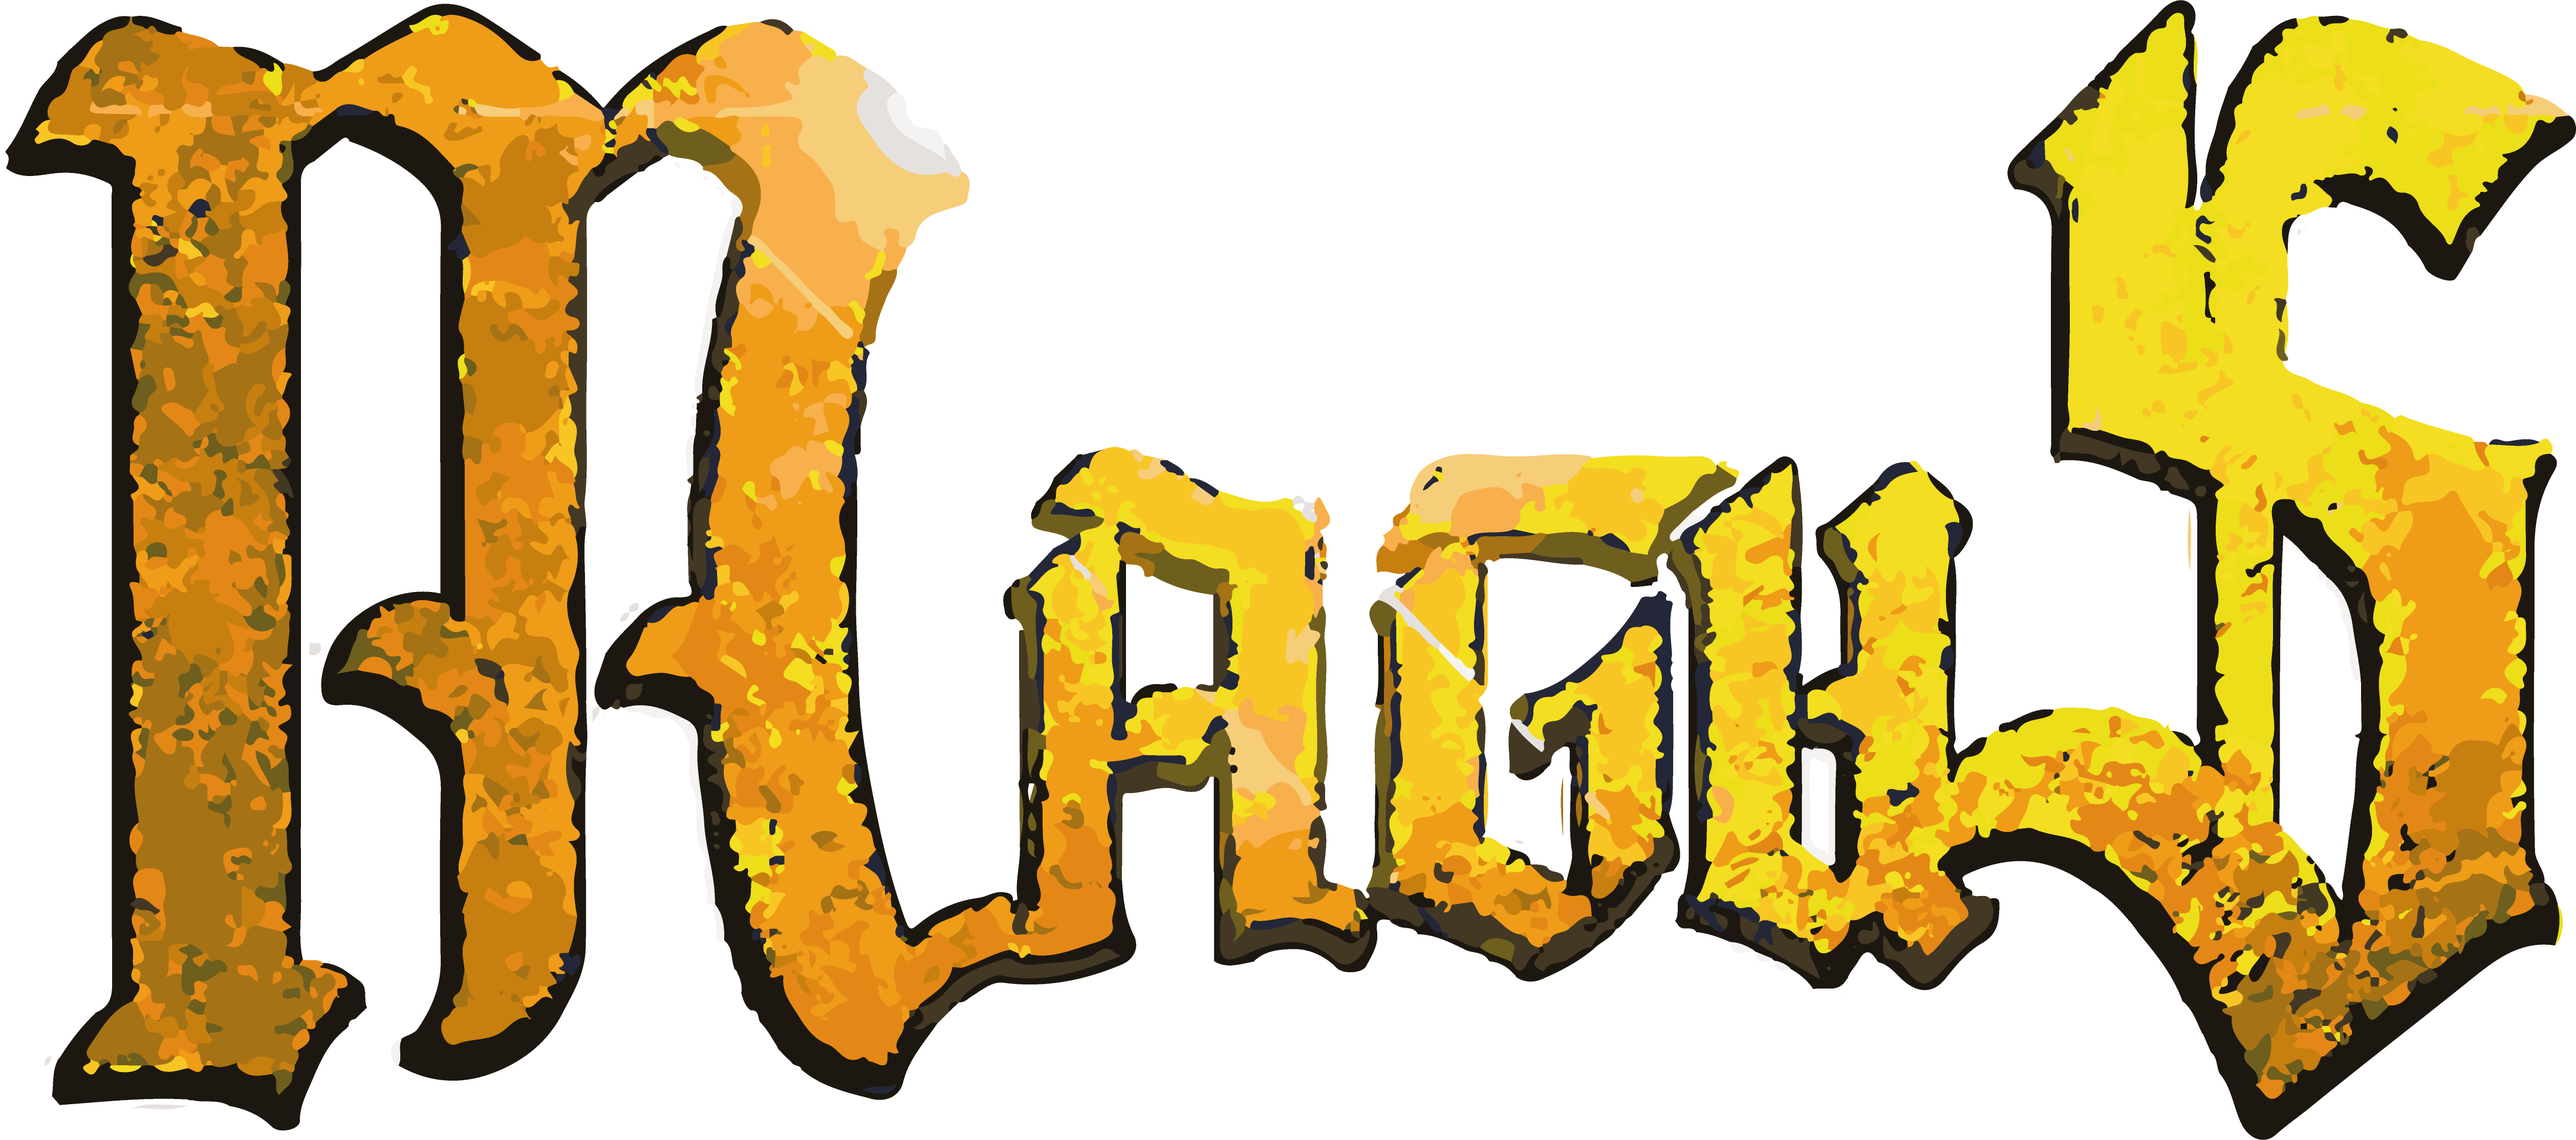
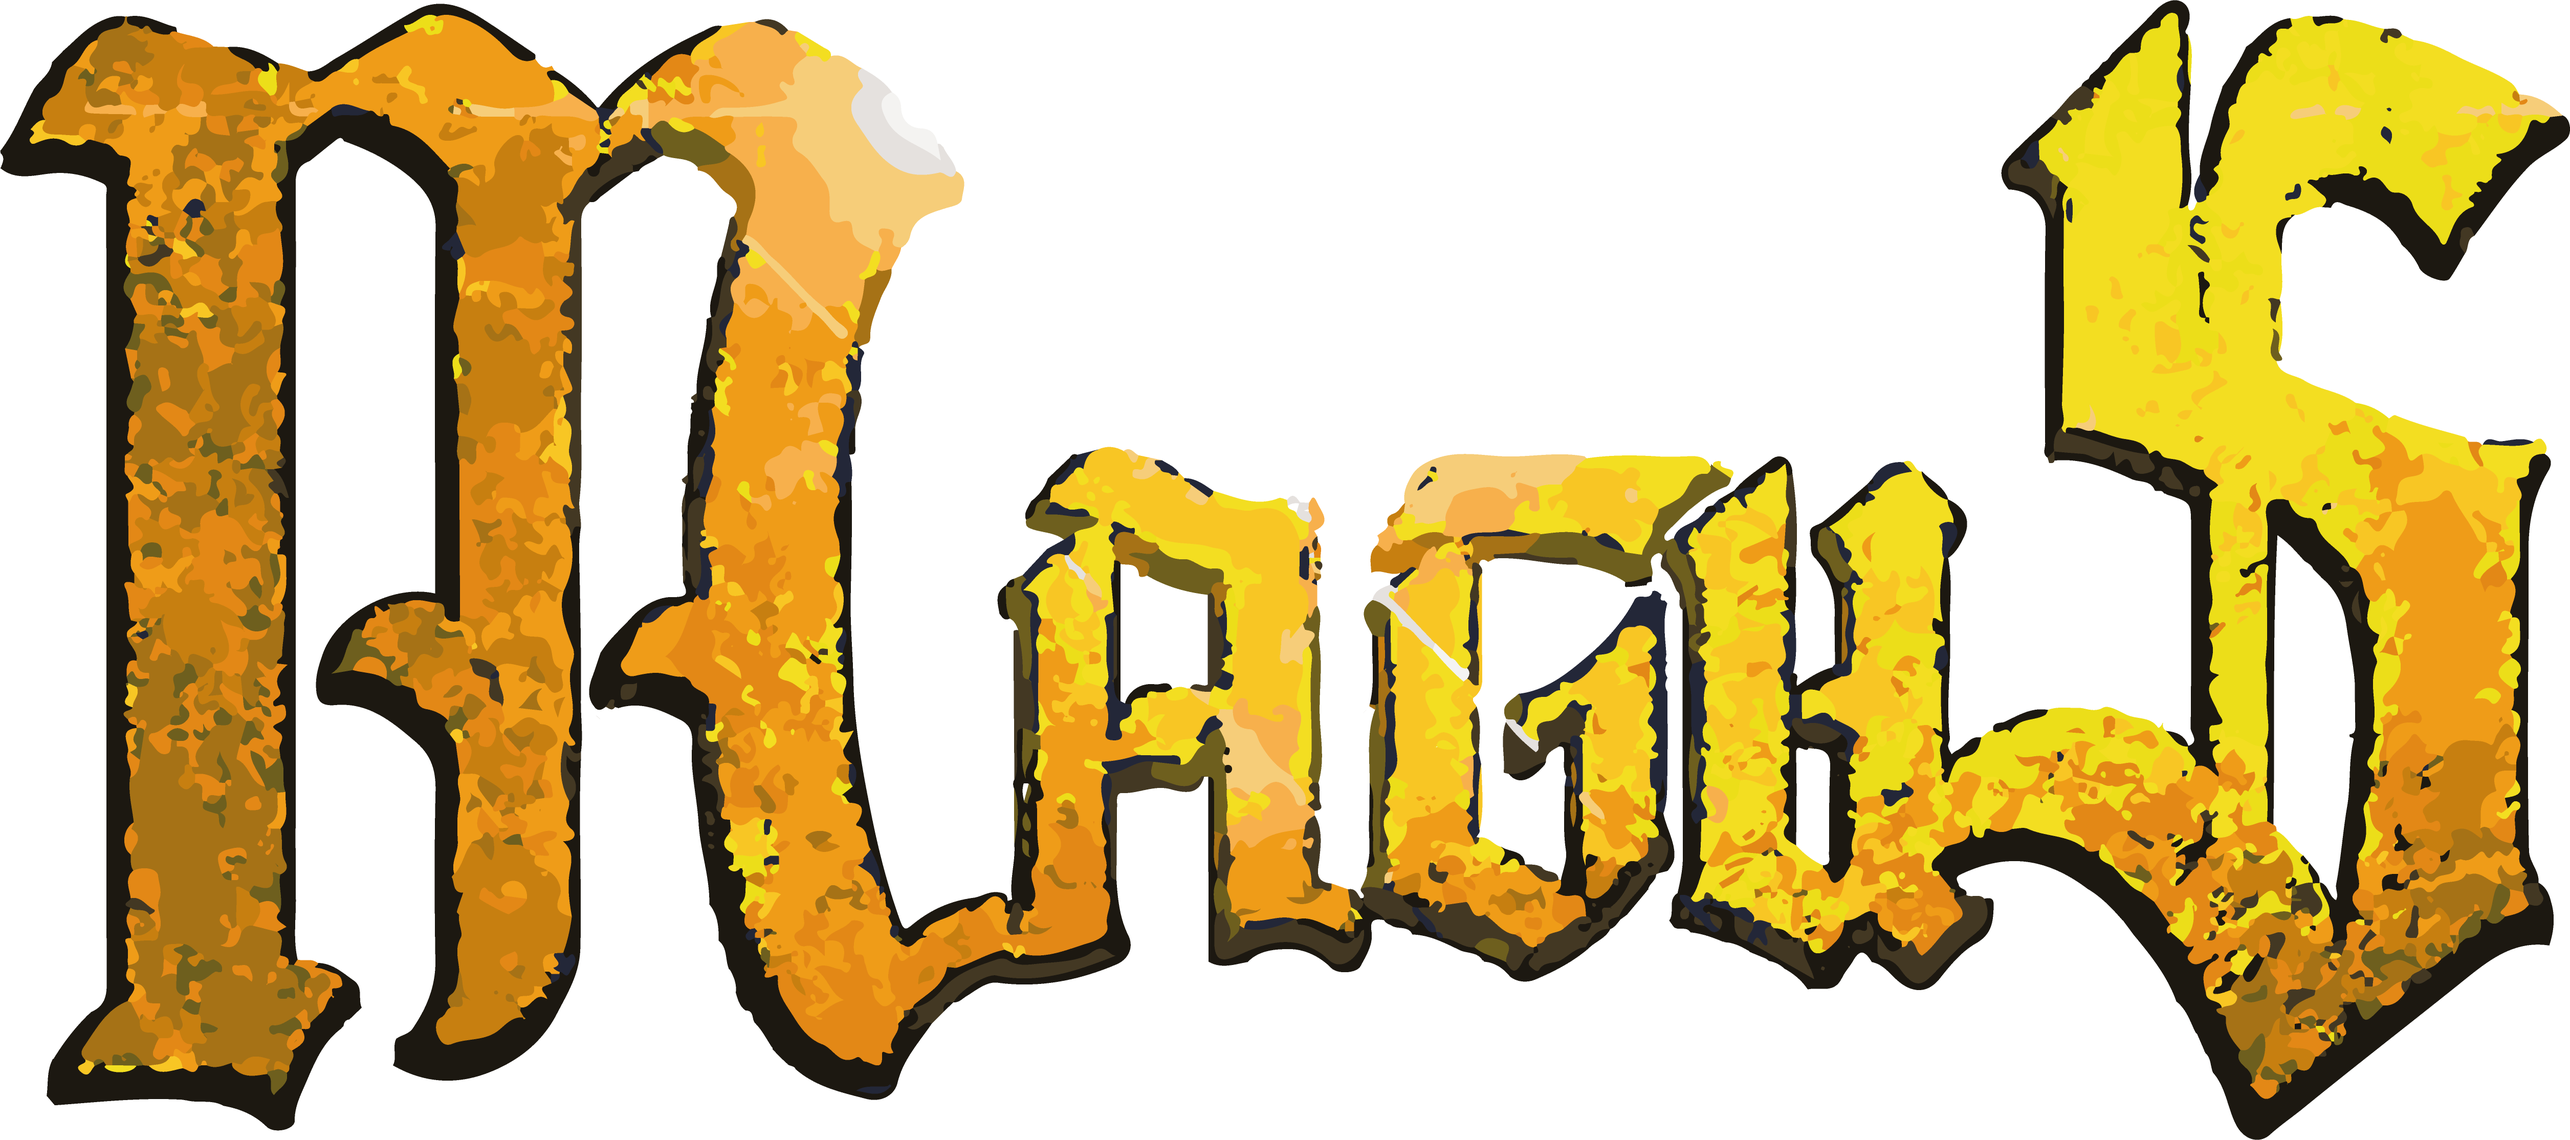
update image magus + creacion marketplace base

diff --git a/src/views/Market.vue b/src/views/Market.vue
@@ -1,19 +1,80 @@
 <template>
-    <div class="main-background m-0 p-3 min-vh-100">
-        <div class="main-div row text-white min-vh-100 d-flex align-items-start text-center">
-            <div>
-                <h1 class="main-title shining-text">MARKET</h1>
+    <div class="m-0 min-vh-100 bg-dark">
+        <div id="filter-div" class="position-fixed text-white text-center p-3">Here will go the filtering options</div>
+        <div class="container">
+            <div id="card-container" class="row d-flex row-cols-1 gy-2">
+            <!-- <div class="row row-cols-1 row-cols-sm-1 row-cols-md-1 row-cols-lg-2 row-cols-xl-3 gy-2" style="margin-top: 100px;"> -->
+                <!-- <MarketPlaceCard class="col mx-auto"/> -->
+                <MarketPlaceCard class="col mx-auto"/>
+                <MarketPlaceCard class="col mx-auto"/>
+                <MarketPlaceCard class="col mx-auto"/>
+                <MarketPlaceCard class="col mx-auto"/>
+                <MarketPlaceCard class="col mx-auto"/>
+                <MarketPlaceCard class="col mx-auto"/>
+                <MarketPlaceCard class="col mx-auto"/>
+                <MarketPlaceCard class="col mx-auto"/>
+                <MarketPlaceCard class="col mx-auto"/>
+                <MarketPlaceCard class="col mx-auto"/>
+                <MarketPlaceCard class="col mx-auto"/>
+                <MarketPlaceCard class="col mx-auto"/>
+                <MarketPlaceCard class="col mx-auto"/>
+                <MarketPlaceCard class="col mx-auto"/>
+                <MarketPlaceCard class="col mx-auto"/>
+                <MarketPlaceCard class="col mx-auto"/>
+                <MarketPlaceCard class="col mx-auto"/>
+                <MarketPlaceCard class="col mx-auto"/>
+                <MarketPlaceCard class="col mx-auto"/>
+                <MarketPlaceCard class="col mx-auto"/>
+                <MarketPlaceCard class="col mx-auto"/>
+                <MarketPlaceCard class="col mx-auto"/>
+                <MarketPlaceCard class="col mx-auto"/>
+                <MarketPlaceCard class="col mx-auto"/>
+                <MarketPlaceCard class="col mx-auto"/>
+                <MarketPlaceCard class="col mx-auto"/>
+                <MarketPlaceCard class="col mx-auto"/>
+                <MarketPlaceCard class="col mx-auto"/>
             </div>
         </div>
     </div>
 </template>
 
-<style scoped>
+<script>
+import MarketPlaceCard from "../components/MarketPlaceCard.vue";
 
-#global-div {
-  background-image: url("../assets/magic-background.jpg");
-  background-size: cover;
-  background-attachment: fixed;
-  background-position: center;
+export default {
+  name: 'Market',
+  components: {
+    MarketPlaceCard,
+  },
+}
+</script>
+
+<style scoped>
+#card-container {
+    margin-left: 25px;
+    margin-right: 15px;
+    margin-top: 100px;
+}
+#filter-div{
+    background-color: rgba(0, 0, 0, 0.7);
+    left: 50%;
+    transform: translateX(-50%);
+    border-radius: 0 0 20px 20px;
+    padding: 0px;
+    z-index: 1;
+}
+@media screen and (max-width: 767px) {
+    #card-container {
+        margin-left: 45px;
+        margin-right: 30px;
+    }
+    #filter-div{    
+        /* width: 50%; */
+        background-color: rgba(0, 0, 0, 0.7);
+        left: 50%;
+        transform: translateX(-50%);
+        border-radius: 0px;
+        padding: 0px;
+    } 
 }
 </style>

diff --git a/src/components/MarketPlaceCard.vue b/src/components/MarketPlaceCard.vue
@@ -1,0 +1,45 @@
+<template>
+    <div class="market-card card p-1 text-white">
+        <img src="../assets/magus.png" class="market-card-img" alt="...">
+        <div class="card-body text-center">
+            <p class="market-card-title fs-4 fw-bold">Skill name</p>
+            <p class="market-card-text fs-6">
+                Detail one of the Skill
+                Detail two of the Skill
+            </p>
+            <a href="#" class="btn fw-bold card-button">Buy (999$)</a>
+        </div>
+    </div>
+</template>
+
+<script>
+export default {
+  name: "MarketPlaceCard",
+};
+</script>
+
+<style scoped>
+.market-card {
+    max-width: 14rem;
+    box-shadow: 0 0 10px rgb(105, 105, 105);
+    border-radius: 5px;
+    background-image: linear-gradient(to right, rgb(10, 10, 10), rgb(37, 37, 37) 95%);
+}
+.market-card-img {
+    border: solid 2px rgb(194, 151, 11);
+    border-radius: 5px;
+    width: 100%;
+    height: auto;
+    background-image: linear-gradient(to right, rgb(46, 46, 46), rgb(70, 65, 51) 95%);
+    /* background-image: linear-gradient(to right, rgb(46, 46, 46), rgb(71, 71, 71) 95%); */
+}
+.market-card-title {
+    color: rgb(223, 182, 0);
+    text-shadow: 0 0 15px #000000, 0 0 2px #fbff00;
+}
+.card-button {
+    color: rgb(10, 10, 10);
+    background-image: linear-gradient(to right, rgb(121, 92, 0), rgb(196, 150, 0) 98%);
+}
+
+</style>

diff --git a/src/App.vue b/src/App.vue
@@ -2,7 +2,7 @@
   <div class="container-fluid p-0">
     <div class="row m-0">
       <Navbar class="col-auto" />
-      <router-view class="col pt-2 p-0 fs-5"/>
+      <router-view class="col p-0 fs-5"/>
     </div>
   </div>
 </template>

diff --git a/src/components/Navbar.vue b/src/components/Navbar.vue
@@ -34,7 +34,9 @@ export default {
 </script>
 
 <style scoped>
-
+#nav {
+    z-index: 1;
+}
 #game-link-text {
     display: none;
 }
